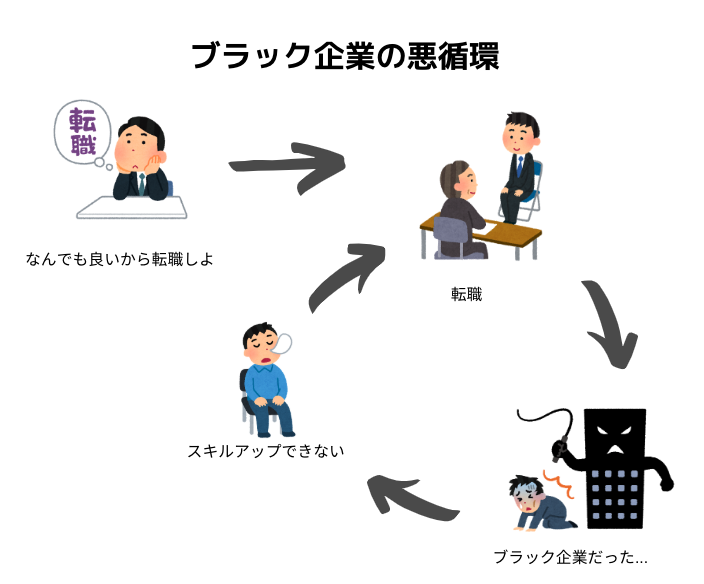
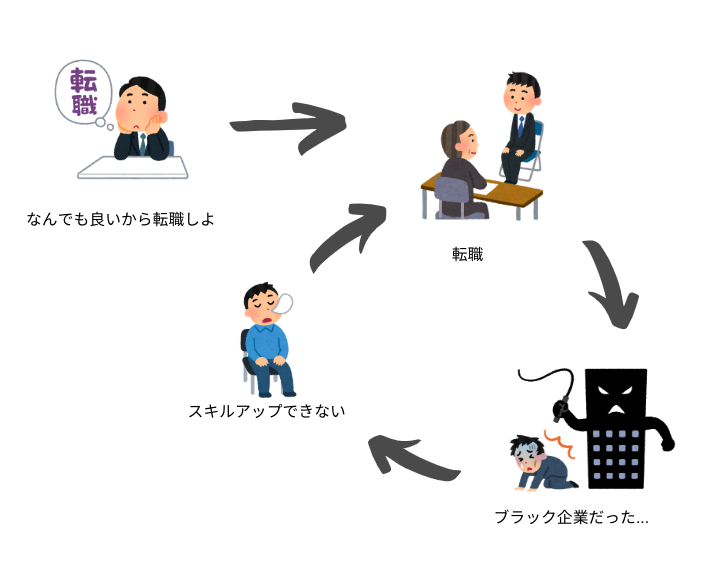
blackcycle_cropped.pngを直す

diff --git a/slides.html b/slides.html
@@ -191,9 +191,9 @@
               <li class="fragment"><span class="jouhou"><ruby>給料<rt>きゅうりょう</rt></ruby></span>は非常に<span class="kiken">低い</span></li>
             </ul>
           </section>
-          <section>
-            <h3>ブラック企業の<ruby>悪循環<rt>あくじゅんかん</rt></ruby>
-            <img src="imgs/blackcycle_cropped.png" width="90%">
+          <section id="BlackCycle">
+            <h3>ブラック企業の<a><ruby>悪循環<rt>あくじゅんかん</rt></ruby></a>
+            <img src="imgs/blackcycle_cropped.png" width="70%">
           </section>
         </section>
 
